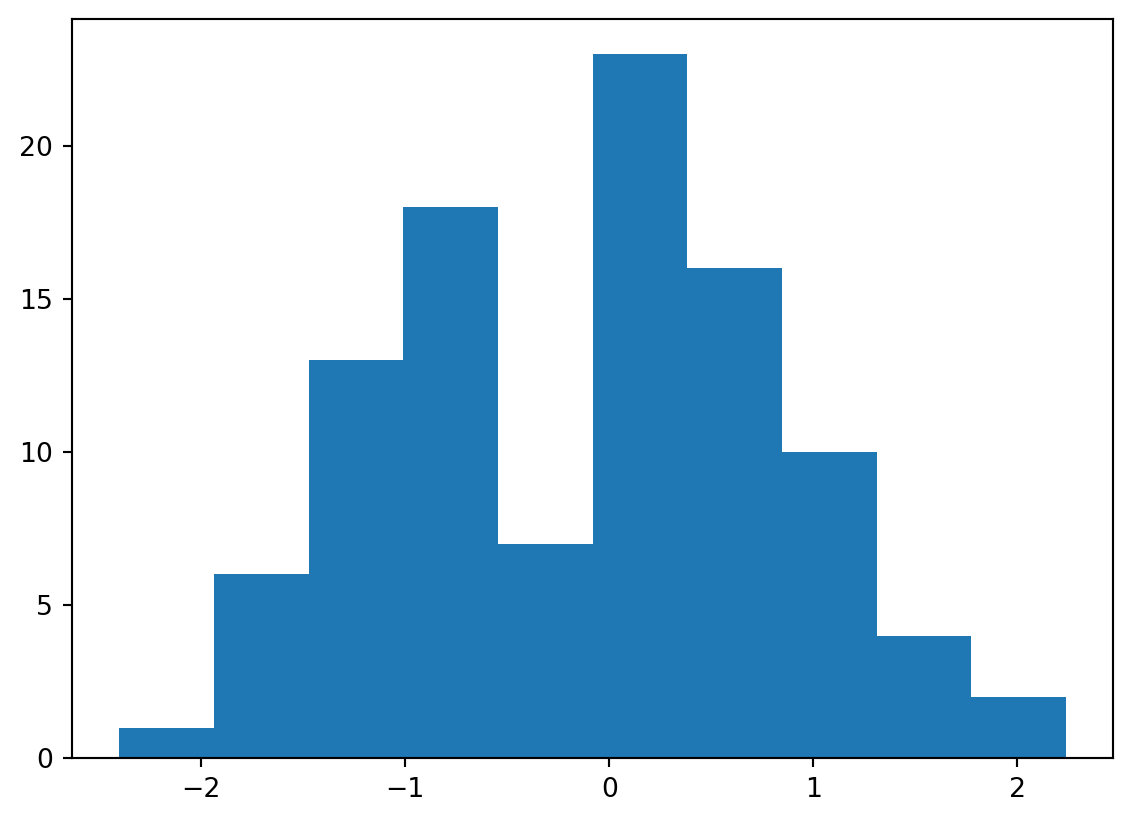
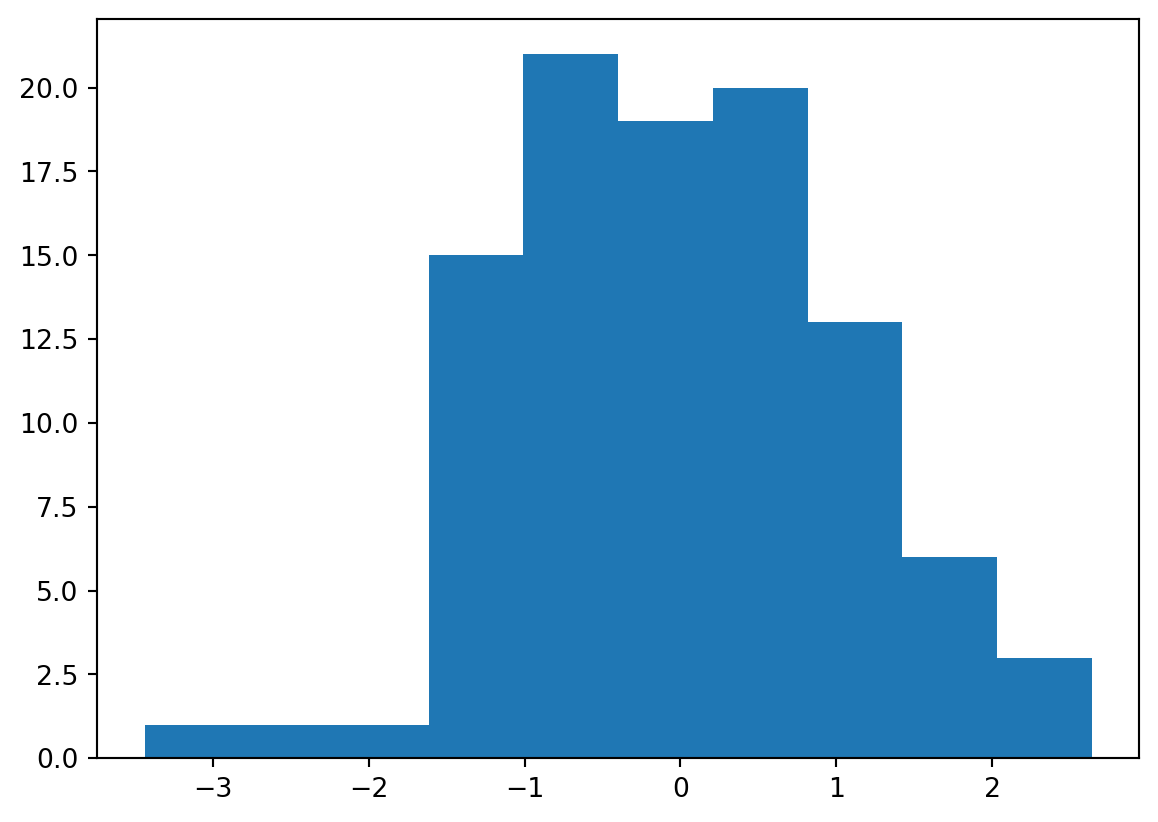
Built site for gh-pages

diff --git a/units/unit1.html b/units/unit1.html
@@ -331,10 +331,10 @@ $$
 <span id="cb1-6"><a href="#cb1-6" aria-hidden="true" tabindex="-1"></a>np.mean(x)</span></code><button title="Copy to Clipboard" class="code-copy-button"><i class="bi"></i></button></pre></div>
 </details>
 <div class="cell-output cell-output-display">
-<p><img src="unit1_files/figure-html/cell-2-output-1.png" width="566" height="411"></p>
+<p><img src="unit1_files/figure-html/cell-2-output-1.png" width="579" height="411"></p>
 </div>
 <div class="cell-output cell-output-display" data-execution_count="1">
-<pre><code>-0.11896459056714948</code></pre>
+<pre><code>-0.007305763954395356</code></pre>
 </div>
 </div>
 </section>

diff --git a/units/unit3.html b/units/unit3.html
@@ -328,10 +328,10 @@ $$
 <span id="cb1-6"><a href="#cb1-6" aria-hidden="true" tabindex="-1"></a>np.mean(x)</span></code><button title="Copy to Clipboard" class="code-copy-button"><i class="bi"></i></button></pre></div>
 </details>
 <div class="cell-output cell-output-display">
-<p><img src="unit3_files/figure-html/cell-2-output-1.png" width="566" height="411"></p>
+<p><img src="unit3_files/figure-html/cell-2-output-1.png" width="579" height="411"></p>
 </div>
 <div class="cell-output cell-output-display" data-execution_count="1">
-<pre><code>-0.10552264327719085</code></pre>
+<pre><code>-0.012477482216165594</code></pre>
 </div>
 </div>
 </section>

diff --git a/index.html b/index.html
@@ -460,7 +460,7 @@ No matching items
    <tbody>
            <tr>
            <th scope="row" rowspan="1">Sep 24:</th>
-           <td><strong class="label label-Lecture">Lecture 8</strong> <a href="reader/fisher-score.qmd" target="_blank">Score and Fisher information</a></td>
+           <td><strong class="label label-Lecture">Lecture 8</strong> <a href="./reader/score-fisher.html" target="_blank">Score and Fisher information</a></td>
                 <td>
                   <a href="handwritten/lecture08-fisherinfo.pdf">Handwritten notes</a>
                 </td>
